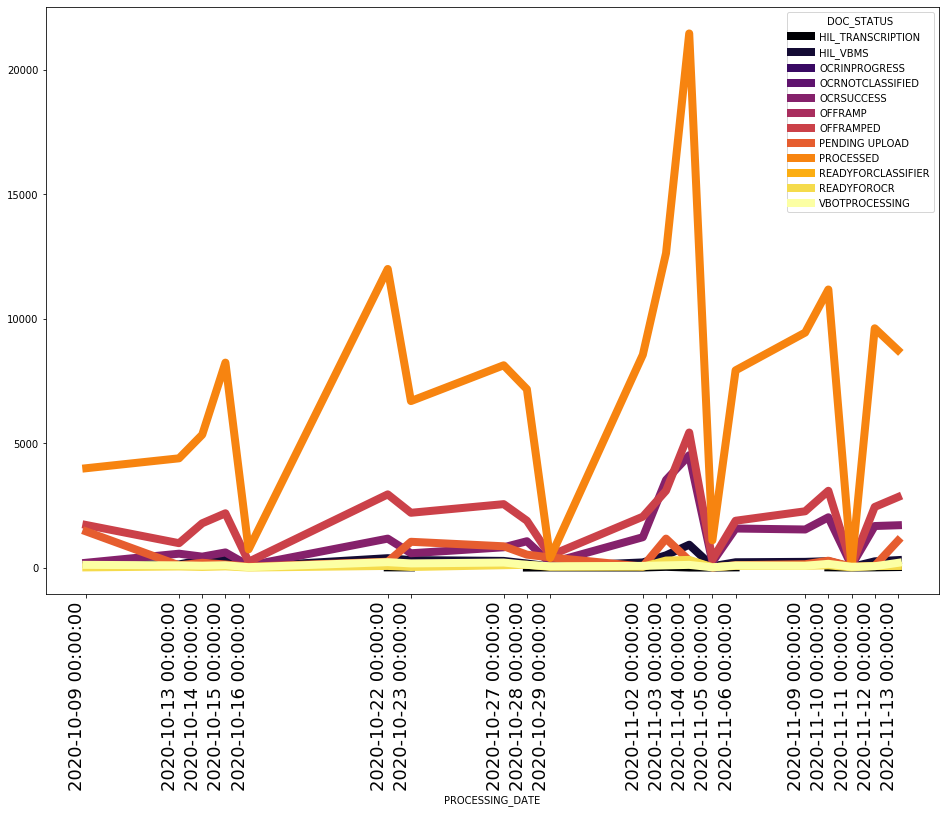
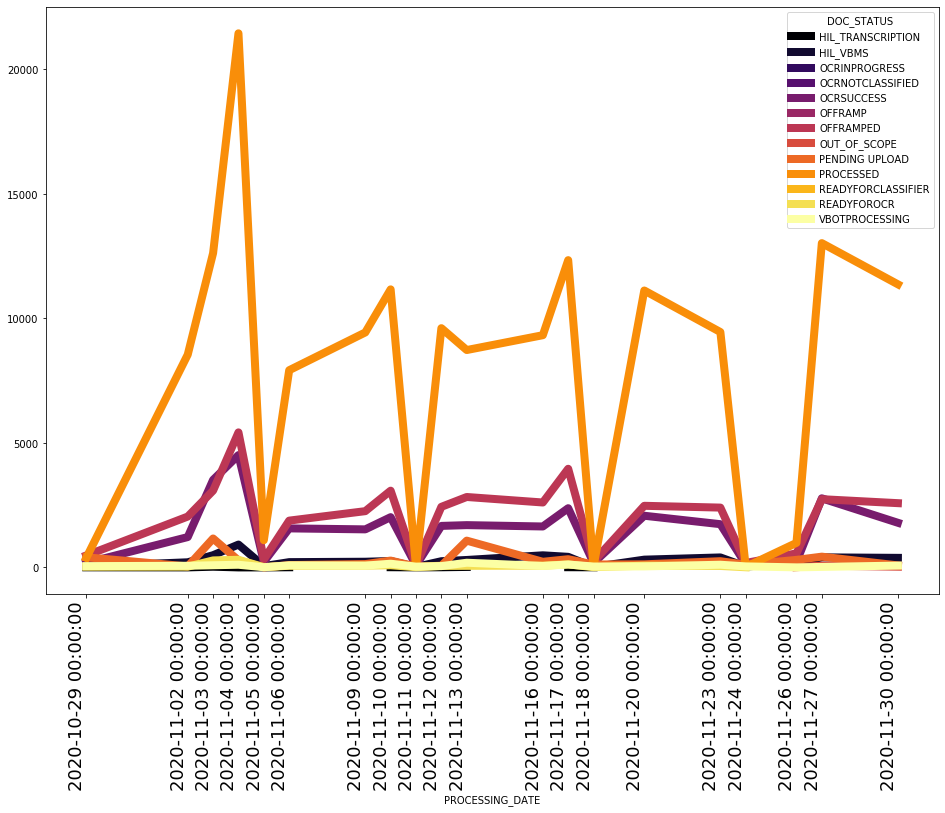
updates

diff --git a/Weekly.html b/Weekly.html
@@ -23,7 +23,7 @@
     <h1>
       <figure class='box'>Daily Dash #s are current from IBM Prod report the week prior
     </h1>
-    <iframe src=https://chart-studio.plotly.com/~mshuff/885.embed height=700px, width=1300px></iframe>
+    <iframe src="https://chart-studio.plotly.com/~mshuff/909.embed" height=700px, width=1300px></iframe>
 
     </figure>
     <div class='center'>
